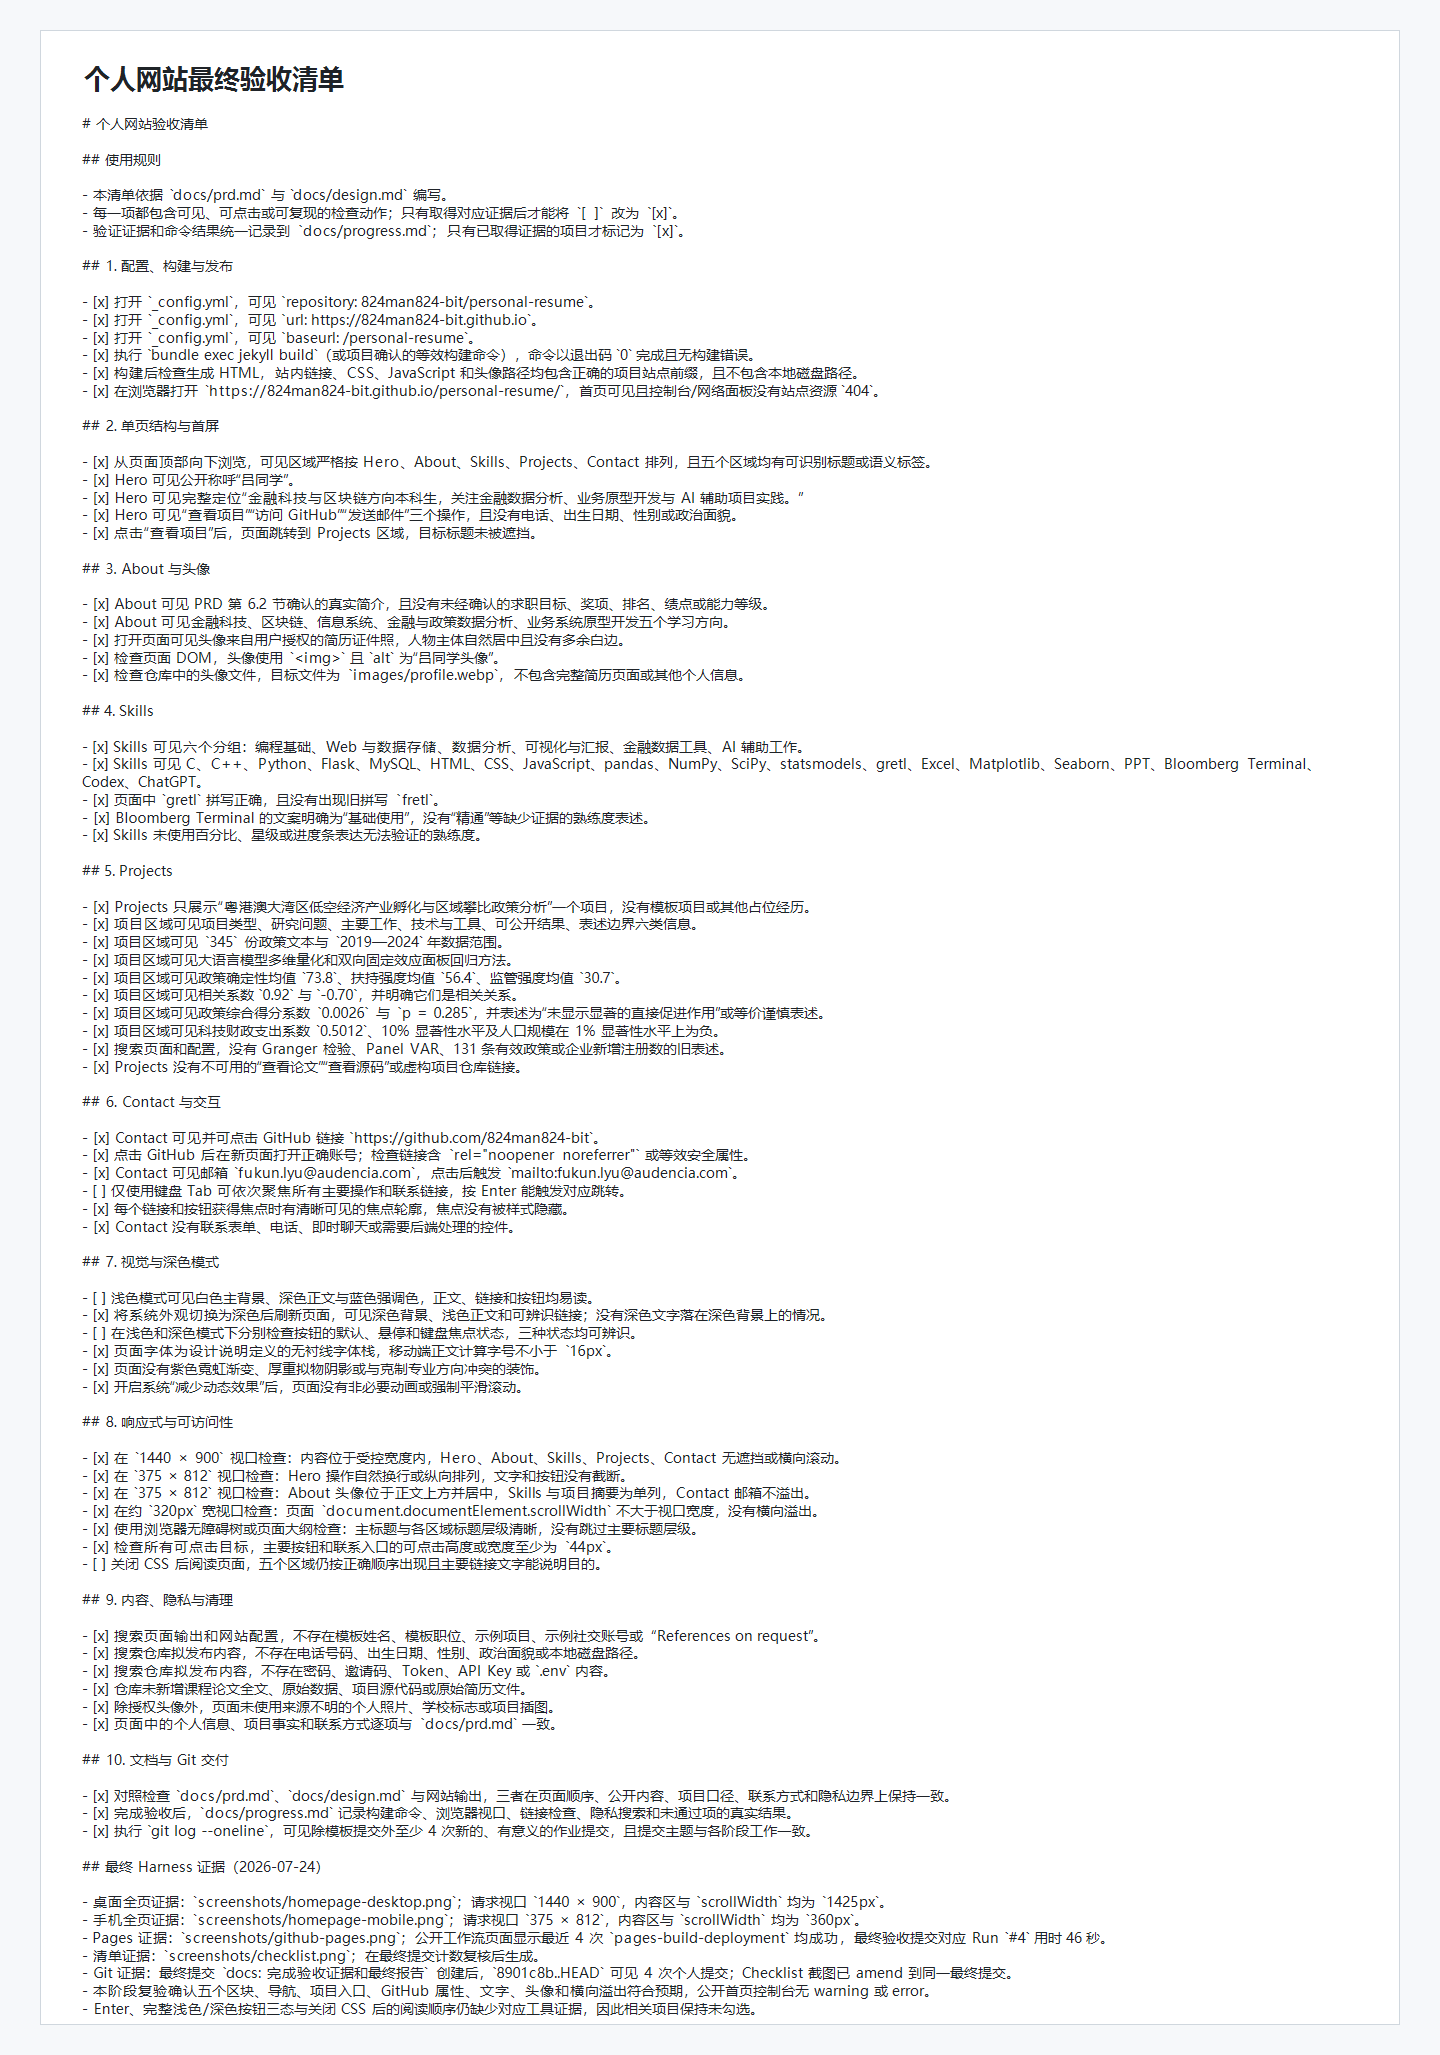
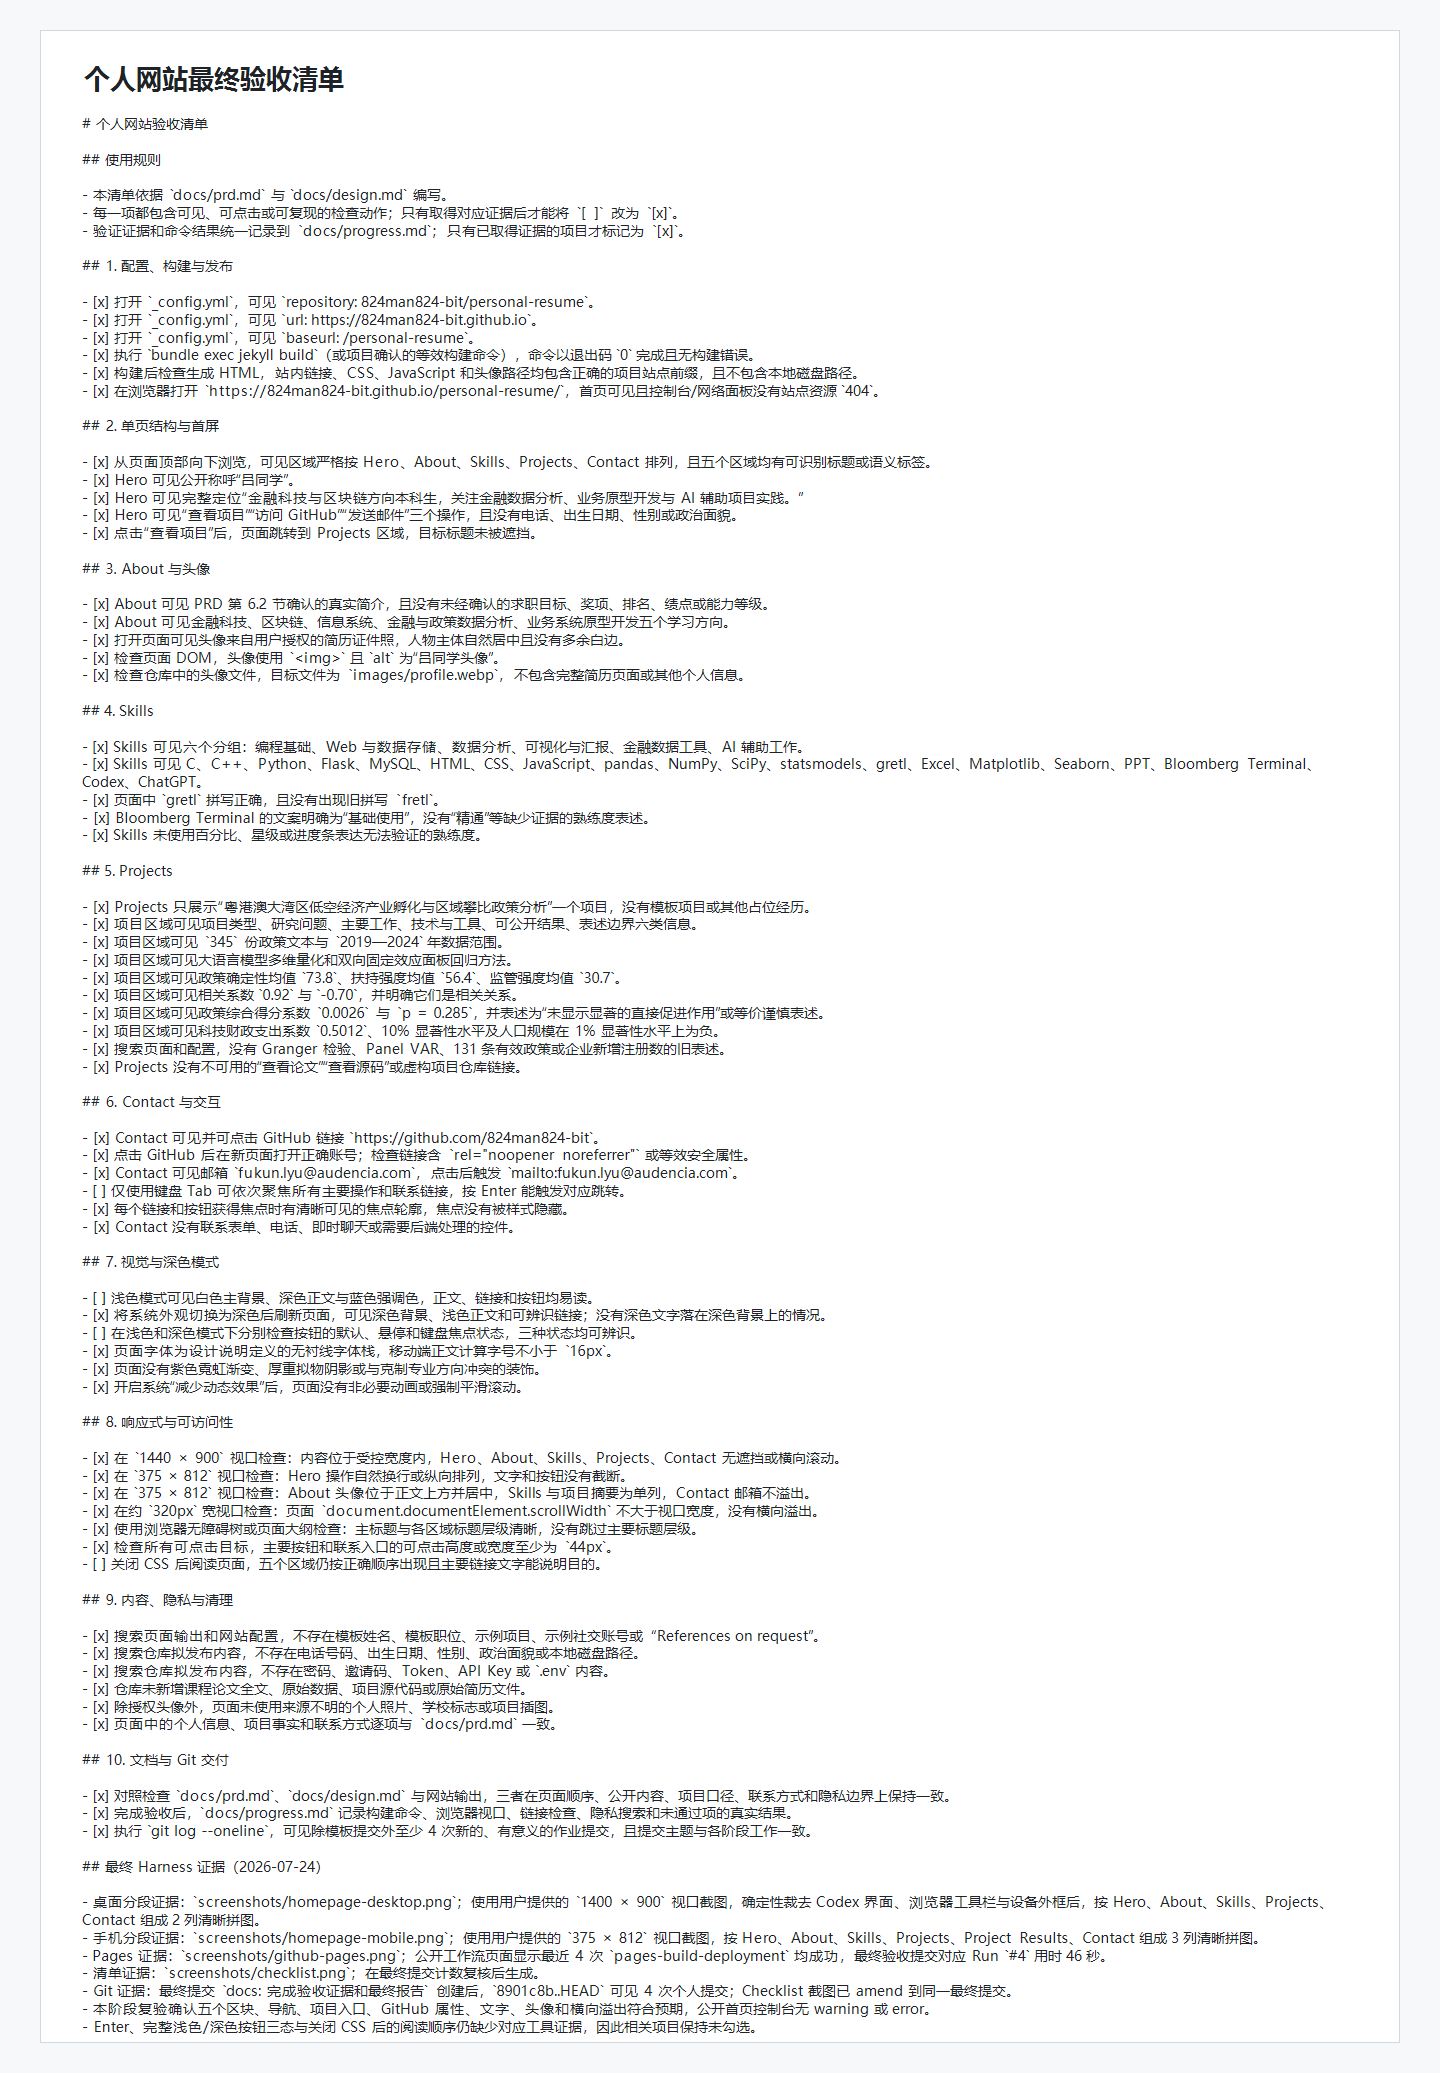
docs: 修正最终验收截图

Changed region(s): [[0.0625, 0.0311, 0.875, 0.9966], [0.8125, 0.3426, 0.9062, 0.3737]]

diff --git a/docs/progress.md b/docs/progress.md
@@ -25,8 +25,8 @@
 - `docs/checklist.md`：依据本阶段新增证据和最终提交计数更新状态；没有证据的项目继续保持未勾选。
 - `docs/progress.md`：记录最终 Harness 的完成事项、文件、验证、决定、问题与下一步。
 - `report/final-report.md`：新建最终报告。
-- `screenshots/homepage-desktop.png`：公开首页桌面全页截图。
-- `screenshots/homepage-mobile.png`：公开首页手机全页截图。
+- `screenshots/homepage-desktop.png`：由用户提供的桌面视口截图裁切组成的分段拼图。
+- `screenshots/homepage-mobile.png`：由用户提供的手机视口截图裁切组成的分段拼图。
 - `screenshots/github-pages.png`：GitHub Pages 工作流成功记录截图。
 - `screenshots/checklist.png`：最终验收清单截图。
 
@@ -43,10 +43,15 @@
 - 当前系统为深色偏好，计算样式为页面背景 `rgb(34, 34, 34)`、正文 `rgb(230, 230, 230)`、Hero 背景 `rgb(43, 47, 54)`。
 - 自动化浏览器的链接 `press('Enter')` 仍未触发原生导航，而鼠标点击正常；因此键盘 Enter 清单项继续保持未勾选，不将工具限制伪装为已通过。
 - 本阶段发布文件占位词复扫无命中，敏感值复扫无命中；目录完整性检查通过。
-- 单文件大小扫描覆盖已跟踪文件和本阶段交付文件；最大文件为模板原有 `screenshot.png`，大小 `721,118` 字节，未发现异常大文件。
+- 单文件大小扫描覆盖已跟踪文件和本阶段交付文件；最大文件为最终桌面证据 `screenshots/homepage-desktop.png`，大小 `982,265` 字节，未发现异常大文件。
 - 已创建最终提交 `docs: 完成验收证据和最终报告`；`git log --format='%h %s' 8901c8b..HEAD` 可见 4 次个人提交，满足作业提交数量要求。
 - 最终验收提交 `2267107` 已推送至 `origin/master`；GitHub Pages Run `#4`（`30094588020`）成功，耗时 46 秒。
 - 推送后再次打开公开首页，五个区块与标题层级正常，头像完整加载为 `400 × 500`，页面无横向溢出，控制台仍无 warning 或 error。
+- 用户指出最初两张全页截图在应用内预览时出现手机图被极端缩窄、桌面图重复拼接的问题；已放弃浏览器 `fullPage` 长图输出，改为对 Hero、About、Skills、Projects、Contact 逐区块拍摄固定视口截图并组合成清晰拼图。
+- 重拍时逐项等待平滑滚动结束并读取目标位置：桌面 About、Skills、Projects 距视口顶部约 `24.3px`，手机对应位置约 `24px`；Contact 因页面底部限制以最大滚动位置拍摄，画面完整包含 Contact 入口与页脚。
+- 已目视复核替换后的 `homepage-desktop.png` 与 `homepage-mobile.png`：标签与画面一致，五个区块均清晰可读，不再出现重复拼接或极端缩窄。
+- 用户随后提供 6 张 `375 × 812` 手机视口截图与 5 张有效的 `1400 × 900` 桌面视口截图；本阶段仅做确定性裁切、缩放、标注与拼接，去除 Codex 界面、浏览器工具栏和设备外框，没有生成或改写页面内容。
+- 最终桌面证据为 `2100 × 2115`、`982,265` 字节，最终手机证据为 `1776 × 2532`、`565,039` 字节；两张图均已目视复核通过。
 
 ## 最终 Harness 阶段用户确认的决定
 

diff --git a/docs/checklist.md b/docs/checklist.md
@@ -97,8 +97,8 @@
 
 ## 最终 Harness 证据（2026-07-24）
 
-- 桌面全页证据：`screenshots/homepage-desktop.png`；请求视口 `1440 × 900`，内容区与 `scrollWidth` 均为 `1425px`。
-- 手机全页证据：`screenshots/homepage-mobile.png`；请求视口 `375 × 812`，内容区与 `scrollWidth` 均为 `360px`。
+- 桌面分段证据：`screenshots/homepage-desktop.png`；使用用户提供的 `1400 × 900` 视口截图，确定性裁去 Codex 界面、浏览器工具栏与设备外框后，按 Hero、About、Skills、Projects、Contact 组成 2 列清晰拼图。
+- 手机分段证据：`screenshots/homepage-mobile.png`；使用用户提供的 `375 × 812` 视口截图，按 Hero、About、Skills、Projects、Project Results、Contact 组成 3 列清晰拼图。
 - Pages 证据：`screenshots/github-pages.png`；公开工作流页面显示最近 4 次 `pages-build-deployment` 均成功，最终验收提交对应 Run `#4` 用时 46 秒。
 - 清单证据：`screenshots/checklist.png`；在最终提交计数复核后生成。
 - Git 证据：最终提交 `docs: 完成验收证据和最终报告` 创建后，`8901c8b..HEAD` 可见 4 次个人提交；Checklist 截图已 amend 到同一最终提交。
